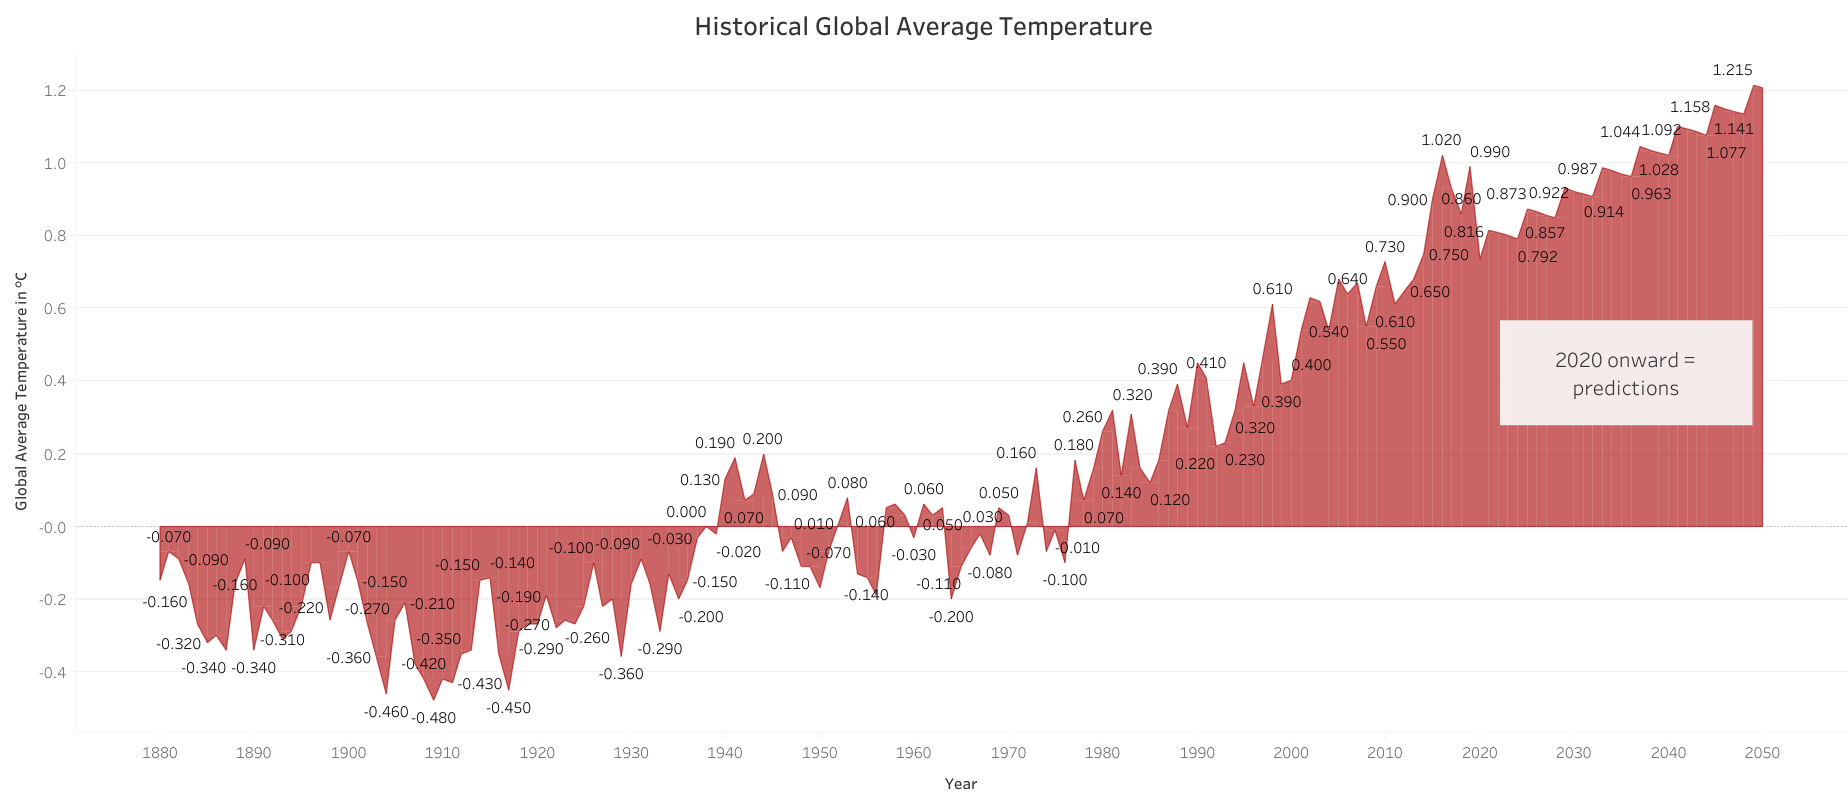
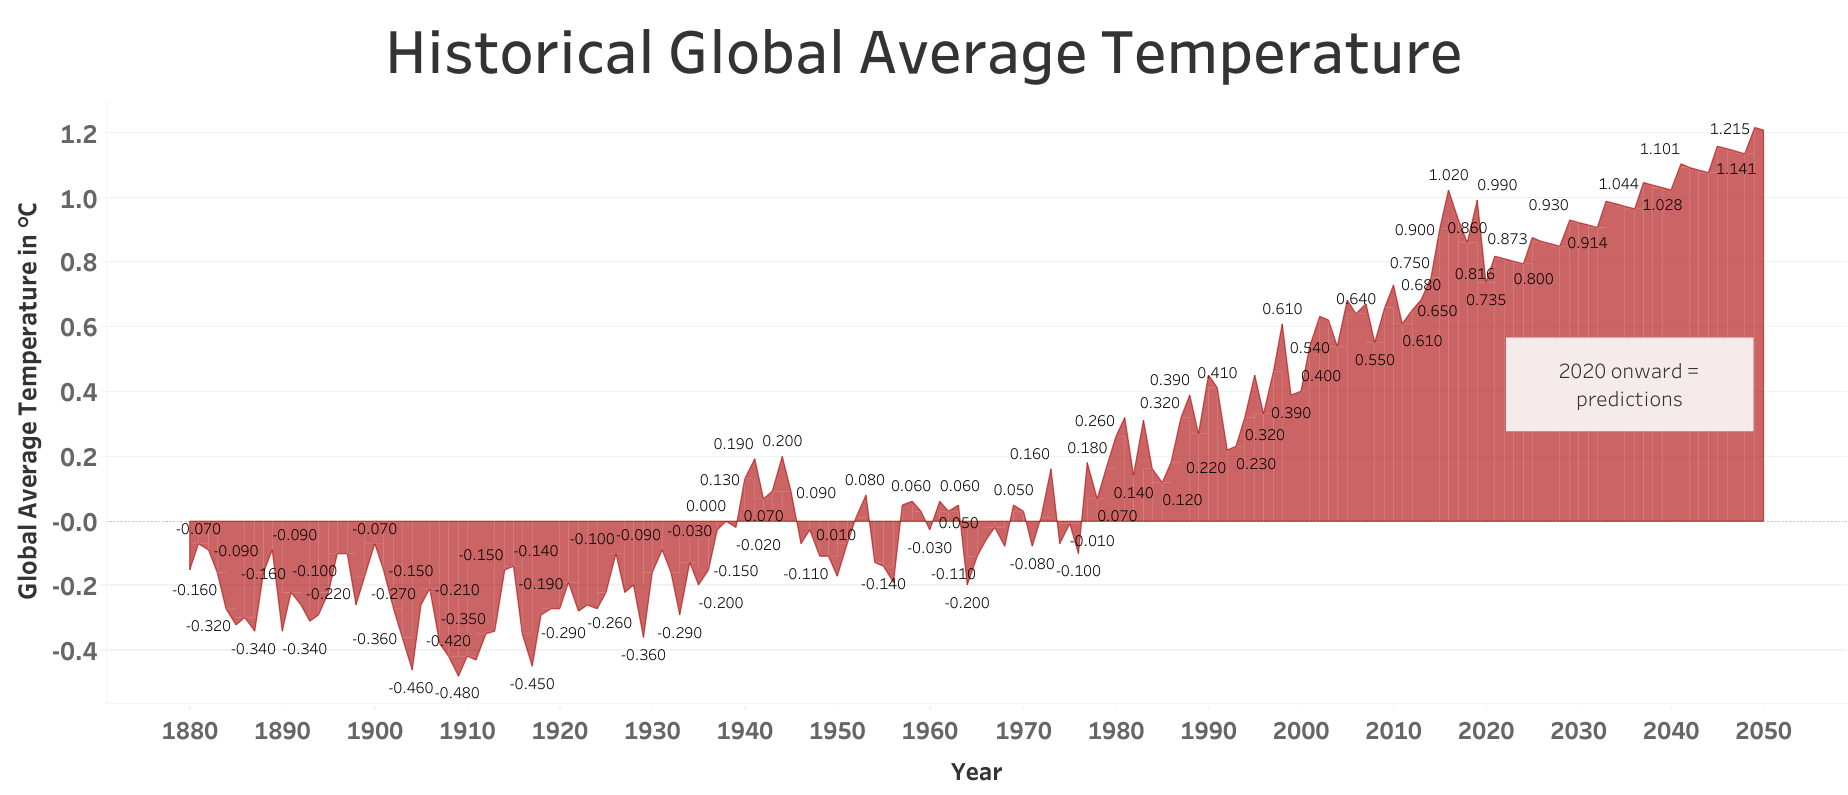
completed Oracle

diff --git a/Peter's Code/machineLearning.html b/Peter's Code/machineLearning.html
@@ -18,7 +18,7 @@
         <span>Oracle</span>
     </div>
 
-    <div class="main">
+    <div class="container">
         <span>
             The idea of Oracle came from the name of our group, Deus Ex Machina, or "God from the machine".
             Oracles purpose is to predict the future of climate change.
@@ -28,11 +28,19 @@
             After many, many failed attempts, Facebook's Prophet algorithm was highly successful and accurate,
             resulting in it being the algorithm that was used to model Oracle.
         </span>
-        <span>
-            asdf
-        </span>
+        
         
     </div>
+    <div class="container2">
+        <span>
+            There are two different ways we modeled the Global Average Temperature. One was using historical data dating back to 1880,
+            and one was using the last 10 years.
+            In all examples all predictions are from the year 2020 onwards.
+        </span>
+    </div>
+    
+    <img src="../Images/HistoricalGraph.png" class="center">
+    <img src="../Images/RecentGraph.png" class="center">
     
 </body>
 </html>

diff --git a/Peter's Code/css/oracle.css b/Peter's Code/css/oracle.css
@@ -20,7 +20,7 @@ body {
 
 .container { 
     position: relative;
-    height: 600px;
+    height: 250px;
     width: 60%;
     margin: 0 auto;
     padding: 20px;
@@ -39,6 +39,16 @@ span {
     border-radius: 10px;
     margin-top: 20px;
 }
+.container2 {
+    position: relative;
+    height: 150px;
+    width: 60%;
+    margin: 0 auto;
+    padding: 20px;
+    overflow: auto;
+}
+
+
 
 .Title {
     position: relative;
@@ -55,7 +65,8 @@ span {
     display: block;
     margin-left: auto;
     margin-right: auto;
-    
-    margin-bottom: 5px;
+    width: 60%;
+    margin-top: 50px;
+    margin-bottom: 50px;
     
   }
